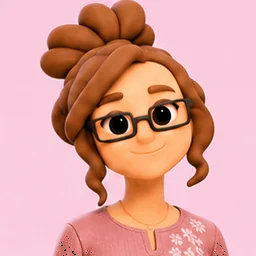
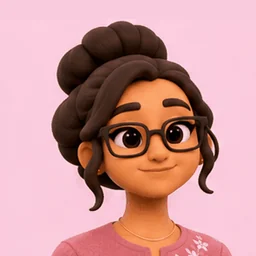
Kiru colour redo: work idle/wave/laugh/type in kiru-v2 skin and hair colours
Claude-Session: https://claude.ai/code/session_01M9MLSzTgGmRpDx4quWz9qx

diff --git a/design/gen/status.md b/design/gen/status.md
@@ -129,11 +129,11 @@ Generated in ChatGPT, checked frame by frame, converted to 256x256 animated WebP
 | kiru/home/cook | done | 0 |  |
 | kiru/home/sleep | done | 0 |  |
 | kiru/home/laugh | done | 0 | Kiru v2 look; head tilts back with the laugh (up to 12 px); 4 px edge trim for a bottom strip |
-| kiru/work/idle | done | 0 | Kiru v2 look; body rose up to 6 px and ended 3 px off; re-aligned and cropped |
-| kiru/work/wave | done | 0 | Kiru v2 look |
-| kiru/work/type | done | 0 | hair renders a little more reddish-brown |
+| kiru/work/idle | done | 1 | colour redo Nov 19 (sprite sheet, kiru-v2 colours): sprite-sheet render; aligned to frame 0; blink frames 5-9 |
+| kiru/work/wave | done | 1 | colour redo Nov 19 (sprite sheet, kiru-v2 colours): hand waves at the left edge and is partly cut there in frames 5-9; one blink |
+| kiru/work/type | done | 1 | colour redo Nov 19 (sprite sheet, kiru-v2 colours): ONE laptop lid at the bottom right, hands below the frame; looks down at the screen then up with a smile; head bob up to 5 px |
 | kiru/work/coffee | done | 0 | tea break with ONE glass of milky tea (checked every frame) |
-| kiru/work/laugh | done | 0 | Kiru v2 look; head tilts back with the laugh (moves up to 12 px); 4 px edge trim for a bottom strip |
+| kiru/work/laugh | done | 1 | colour redo Nov 19 (sprite sheet, kiru-v2 colours): laugh: leans in toward the camera and tilts back (figure up to 12 px higher and ~10% larger in frames 6-9, sheet as drawn, not aligned) |
 | kiru/work2/idle | done | 0 | Kiru v2 look |
 | kiru/work2/wave | done | 0 | Kiru v2 look; wave occupies frames 5-12 |
 | kiru/work2/type | done | 0 | Kiru v2 look; frames 9-15 sat 4-6 px higher (loop pop); re-aligned to frame 0 and cropped |
@@ -176,3 +176,61 @@ Generated in ChatGPT, checked frame by frame, converted to 256x256 animated WebP
 | sheets/expressions-v1 | done | 0 | 8 expressions x 3 people |
 | sheets/outfits-daily-v1 | done | 0 | columns: work2, work3, out2, out3, out4, home2 |
 | sheets/outfits-special-v1 | done | 0 | columns: gym, party, rain, travel |
+
+## Colour redo (Kiru skin/hair drift, Nov 19)
+
+Reference measurements (tools: /tmp/tools/colour.py; median Lab over sampled frames, skin = brown pixels brighter than the hair, hair = darker non-skin brown pixels in the head band):
+
+- design/ref/kiru-v2.png: skin RGB(225,133,76) HSV(23,66%,88%) Lab(64.4,30.3,45.0); hair RGB(70,41,31) HSV(15,56%,27%) Lab(19.9,12.5,12.2)
+- kiru/out/idle (user GIF): skin RGB(222,135,80) HSV(23,64%,87%) Lab(64.6,28.1,43.0); hair RGB(70,40,31) HSV(14,56%,27%) Lab(19.6,13.3,12.0)
+- drifted kiru/work/idle (old): skin RGB(251,188,135) Lab(80.9,16.3,35.6); hair RGB(158,80,38) Lab(43.0,29.6,38.5)
+- Pass rule: dE2000 vs kiru-v2.png skin <= 9.0 and hair <= 9.5 (calibrated: all 10 kiru/out/* pass, max skin 8.9 / hair 9.4 on out/pack; all 43 old drifted files fail, mildest home/cook hair 10.0, work/type skin 9.2). Margins are thin for the mildest drifted files, so the frame-by-frame review is still required.
+- Method change: ChatGPT now asked for a 4x4 sprite sheet (16 real redrawn frames) with kiru-v2.png pasted in every prompt plus an explicit colour line; sheets kept in design/gen/sheets-colour/, sliced with /tmp/tools/sheet2gif.py (gutter cut, phase-correlation alignment to frame 0, bg padding above the bun). Old GIFs kept as design/gen/kiru/<outfit>-<pose>-oldcolour.gif.
+
+| item | state | skin dE | hair dE | note |
+|---|---|---|---|---|
+| kiru/gym/idle | pending |  |  | old: skin dE 14.6 hair dE 23.4 |
+| kiru/gym/wave | pending |  |  | old: skin dE 14.1 hair dE 22.3 |
+| kiru/gym/workout | pending |  |  | old: skin dE 13.8 hair dE 24.1 |
+| kiru/home/cook | pending |  |  | old: skin dE 8.9 hair dE 10.0 |
+| kiru/home/idle | pending |  |  | old: skin dE 14.8 hair dE 23.2 |
+| kiru/home/laugh | pending |  |  | old: skin dE 10.2 hair dE 9.2 |
+| kiru/home/phone | pending |  |  | old: skin dE 11.5 hair dE 9.5 |
+| kiru/home/sleep | pending |  |  | old: skin dE 5.0 hair dE 12.3 |
+| kiru/home/tv | pending |  |  | old: skin dE 10.4 hair dE 8.9 |
+| kiru/home/wave | pending |  |  | old: skin dE 10.7 hair dE 6.6 |
+| kiru/home2/idle | pending |  |  | old: skin dE 15.8 hair dE 22.1 |
+| kiru/home2/phone | pending |  |  | old: skin dE 15.5 hair dE 25.6 |
+| kiru/home2/sleep | pending |  |  | old: skin dE 12.8 hair dE 22.8 |
+| kiru/home2/tv | pending |  |  | old: skin dE 14.8 hair dE 23.1 |
+| kiru/home2/wave | pending |  |  | old: skin dE 15.9 hair dE 22.4 |
+| kiru/out2/idle | pending |  |  | old: skin dE 14.9 hair dE 17.7 |
+| kiru/out2/walk | pending |  |  | old: skin dE 15.5 hair dE 17.0 |
+| kiru/out2/wave | pending |  |  | old: skin dE 15.4 hair dE 22.0 |
+| kiru/out3/idle | pending |  |  | old: skin dE 14.9 hair dE 17.4 |
+| kiru/out3/laugh | pending |  |  | old: skin dE 15.1 hair dE 18.6 |
+| kiru/out3/wave | pending |  |  | old: skin dE 15.7 hair dE 18.1 |
+| kiru/out4/dance | pending |  |  | old: skin dE 15.0 hair dE 19.3 |
+| kiru/out4/idle | pending |  |  | old: skin dE 15.4 hair dE 18.5 |
+| kiru/out4/wave | pending |  |  | old: skin dE 14.9 hair dE 18.8 |
+| kiru/party/dance | pending |  |  | old: skin dE 13.7 hair dE 24.4 |
+| kiru/party/idle | pending |  |  | old: skin dE 14.9 hair dE 23.2 |
+| kiru/party/wave | pending |  |  | old: skin dE 15.1 hair dE 23.1 |
+| kiru/rain/idle | pending |  |  | old: skin dE 9.3 hair dE 13.6 |
+| kiru/rain/walk | pending |  |  | old: skin dE 11.0 hair dE 13.1 |
+| kiru/rain/wave | pending |  |  | old: skin dE 9.7 hair dE 14.5 |
+| kiru/travel/idle | pending |  |  | old: skin dE 12.0 hair dE 18.8 |
+| kiru/travel/travel | pending |  |  | old: skin dE 14.2 hair dE 21.3 |
+| kiru/travel/wave | pending |  |  | old: skin dE 12.3 hair dE 19.5 |
+| kiru/work/coffee | pending |  |  | old: skin dE 9.8 hair dE 13.0 |
+| kiru/work/idle | done | 2.2 | 0.8 | sprite-sheet render; aligned to frame 0; blink frames 5-9 |
+| kiru/work/laugh | done | 2.9 | 1.0 | laugh: leans in toward the camera and tilts back (figure up to 12 px higher and ~10% larger in frames 6-9, sheet as drawn, not aligned) |
+| kiru/work/type | done | 2.4 | 1.4 | ONE laptop lid at the bottom right, hands below the frame; looks down at the screen then up with a smile; head bob up to 5 px |
+| kiru/work/wave | done | 3.0 | 1.0 | hand waves at the left edge and is partly cut there in frames 5-9; one blink |
+| kiru/work2/idle | pending |  |  | old: skin dE 9.6 hair dE 8.2 |
+| kiru/work2/type | pending |  |  | old: skin dE 12.6 hair dE 12.2 |
+| kiru/work2/wave | pending |  |  | old: skin dE 11.9 hair dE 8.8 |
+| kiru/work3/coffee | pending |  |  | old: skin dE 14.0 hair dE 16.9 |
+| kiru/work3/idle | pending |  |  | old: skin dE 13.9 hair dE 14.3 |
+| kiru/work3/wave | pending |  |  | old: skin dE 14.1 hair dE 14.5 |
+| dushy/out/idle | pending |  |  | old render: different face / darker than the rest of the Dushy set |
